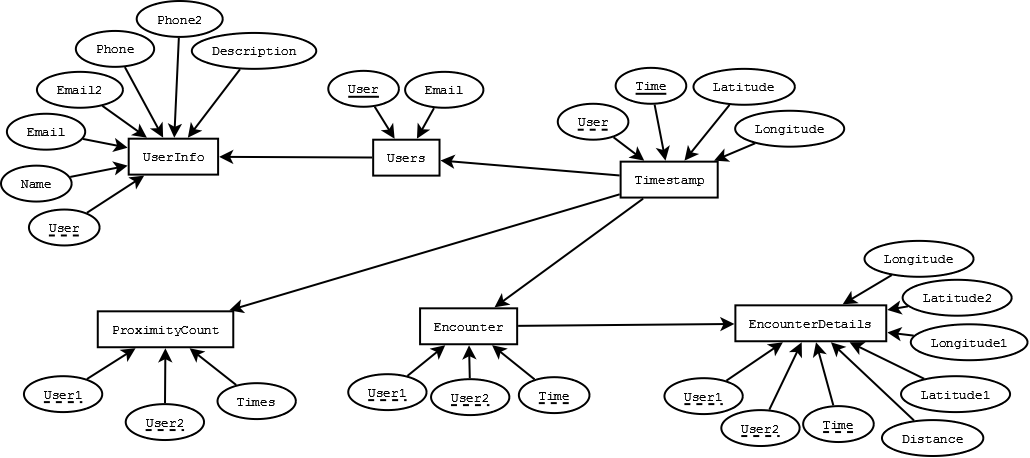
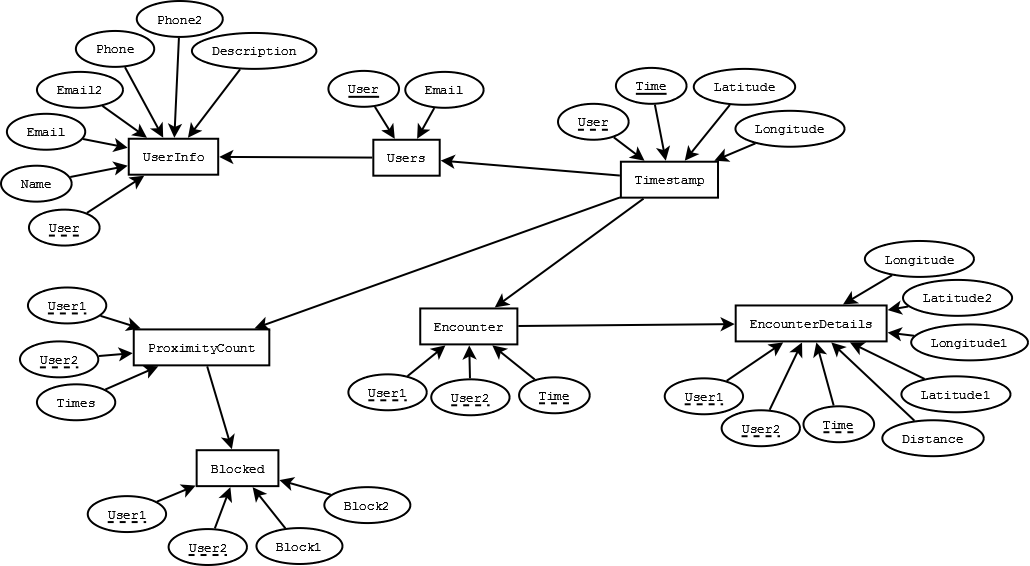
User blocking PHP now in place so only one user has to block

diff --git a/src/com/mhacks/reencounter/php/deleteBlock.php b/src/com/mhacks/reencounter/php/deleteBlock.php
@@ -1,0 +1,47 @@
+<?php
+if(isset($_GET['user']) && isset($_GET['password']) && isset($_GET['otherUser'])) {
+	$user      = strtolower($_GET['user']);
+	$password  = $_GET['password'];
+	$otherUser = strtolower($_GET['otherUser']);
+	
+	$con = mysqli_connect('reencounter.cyzculuyt8xu.us-west-2.rds.amazonaws.com:3306','admin','encounter') or die('Cannot connect to the DB');
+	mysqli_select_db($con,'ReEncounterDb') or die('Cannot select the DB');
+
+	if ($user == $otherUser) {
+		echo "Invalid entry";
+		return;
+	}
+	
+	$select_user = "Select * From User
+					Where User = '$user' And Password='$password';";
+	if (mysqli_query($con, $select_user)) {
+		echo "User Authentication Failed";
+		return;
+	}
+	
+	if (strcasecmp($user, $otherUser) < 0) {
+		$select_for_blocked = "Select Block1 from Blocked 
+						       Where User1 = '$user' And User2 = '$otherUser' And Block1 = 1;";			
+		$result_for_blocked = mysqli_query($con, $select_for_blocked) or die('Failed: '.$select_for_blocked);
+	
+		if ($mysqli_num_rows($result_for_blocked) > 0) {
+			$delete_from_block = "Delete from Encounter
+								      Where User1='$user' And User2='$otherUser';"; 
+			mysqli_query($con, $delete_from_block) or die('Failed: '.$delete_from_block);
+		}
+	}
+	else {
+		$select_for_blocked = "Select Block2 from Blocked 
+						       Where User1 = '$otherUser' And User2 = '$user' And Block2 = 1;";			
+		$result_for_blocked = mysqli_query($con, $select_for_blocked) or die('Failed: '.$select_for_blocked);
+	
+		if ($mysqli_num_rows($result_for_blocked) > 0) {
+			$delete_from_block = "Delete from Encounter
+								      Where User1='$otherUser' And User2='$user';"; 
+			mysqli_query($con, $delete_from_block) or die('Failed: '.$delete_from_block);
+		}	
+	}
+	
+	@mysqli_close($con);
+}
+?>

diff --git a/src/com/mhacks/reencounter/php/addBlock.php b/src/com/mhacks/reencounter/php/addBlock.php
@@ -1,0 +1,50 @@
+<?php
+if(isset($_GET['user']) && isset($_GET['password']) && isset($_GET['otherUser'])) {
+	$user      = strtolower($_GET['user']);
+	$password  = $_GET['password'];
+	$otherUser = strtolower($_GET['otherUser']);
+	
+	$con = mysqli_connect('reencounter.cyzculuyt8xu.us-west-2.rds.amazonaws.com:3306','admin','encounter') or die('Cannot connect to the DB');
+	mysqli_select_db($con,'ReEncounterDb') or die('Cannot select the DB');
+
+	if ($user == $otherUser) {
+		echo "Invalid entry";
+		return;
+	}
+	
+	$select_user = "Select * From User
+					Where User = '$user' And Password='$password';";
+	if (mysqli_query($con, $select_user)) {
+		echo "User Authentication Failed";
+		return;
+	}
+	
+	if (strcasecmp($user, $other_user) < 0) {
+		$select_for_times = "Select Times from ProximityCount 
+						 Where User1 = '$user' And User2 = '$otherUser' And Times > 1";			
+		$result_for_times = mysqli_query($con, $select_for_times) or die('Failed: '.$select_for_times);
+	
+		if ($mysqli_num_rows($result_for_times) > 0) {
+			$add_block = "Insert into Block
+						  Values ('$user', '$otherUser', 1, 0);";
+			mysqli_query($con, $add_block) or die('Failed: '.$add_block);
+		}
+	}
+	else {
+		$select_for_times = "Select Times from ProximityCount 
+						 Where User1 = '$otherUser' And User2 = '$user' And Times > 1;";			
+		$result_for_times = mysqli_query($con, $select_for_times) or die('Failed: '.$select_for_times);
+		
+		if ($mysqli_num_rows($result_for_times) > 0) {
+			$add_block = "Insert into Block
+						  Values ('$otherUser', '$user', 0, 1);";
+			mysqli_query($con, $add_block) or die('Failed: '.$add_block);
+		}		
+	}
+	else {
+		echo "Other user does not exist";
+	}
+	
+	@mysqli_close($con);
+}
+?>

diff --git a/src/com/mhacks/reencounter/php/commit.php b/src/com/mhacks/reencounter/php/commit.php
@@ -52,9 +52,9 @@ if(isset($_GET['user']) && isset($_GET['timestamp']) && isset($_GET['lat']) && i
 						addProximityCount($user, $other_user, $con);
 						
 						$insert_encounter = "Insert Into Encounter
-											Values ('$user', '$other_user', '$time');\n";	
+											Values ('$user', '$other_user', '$time');";	
 						$insert_encounter_details = "Insert Into EncounterDetails
-											Values ('$user', '$other_user', '$time', $proximity, $lat, $long, $other_lat, $other_long);\n";		
+											Values ('$user', '$other_user', '$time', $proximity, $lat, $long, $other_lat, $other_long);";		
 
 						mysqli_query($con, $insert_encounter) or die('Failed: '.$insert_encounter);
 						mysqli_query($con, $insert_encounter_details) or die('Failed: '.$insert_encounter_details);
@@ -63,9 +63,9 @@ if(isset($_GET['user']) && isset($_GET['timestamp']) && isset($_GET['lat']) && i
 						addProximityCount($other_user, $user, $con);
 						
 						$insert_encounter = "Insert Into Encounter
-											Values ('$other_user', '$user', '$time');\n";	
+											Values ('$other_user', '$user', '$time');";	
 						$insert_encounter_details = "Insert Into EncounterDetails
-											Values ('$other_user', '$user', '$time', $proximity, $other_lat, $other_long, $lat, $long);\n";	
+											Values ('$other_user', '$user', '$time', $proximity, $other_lat, $other_long, $lat, $long);";	
 											
 						mysqli_query($con, $insert_encounter) or die('Failed:  '.$insert_encounter);
 						mysqli_query($con, $insert_encounter_details) or die('Failed:  '.$insert_encounter_details);

diff --git a/src/com/mhacks/reencounter/php/deleteEncounter.php b/src/com/mhacks/reencounter/php/deleteEncounter.php
@@ -23,7 +23,7 @@ if(isset($_GET['user']) && isset($_GET['password']) && isset($_GET['otherUser'])
 	}
 	
 	$select_for_times = "Select Times from ProximityCount 
-						 Where User1 = '$user1' And User2 = '$user2' And Times > 1";			
+						 Where User1 = '$user1' And User2 = '$user2' And Times > 1;";			
 	$result_for_times = mysqli_query($con, $select_for_times) or die('Failed: '.$select_for_times);
 	
 	if ($mysqli_num_rows($result_for_times) > 0) {

diff --git a/src/com/mhacks/reencounter/php/deleteEncounterAll.php b/src/com/mhacks/reencounter/php/deleteEncounterAll.php
@@ -22,7 +22,7 @@ if(isset($_GET['user']) && isset($_GET['password']) && isset($_GET['otherUser'])
 	}
 	
 	$select_for_times = "Select Times from ProximityCount 
-						 Where User1 = '$user1' And User2 = '$user2' And Times > 1";			
+						 Where User1 = '$user1' And User2 = '$user2' And Times > 1;";			
 	$result_for_times = mysqli_query($con, $select_for_times) or die('Failed: '.$select_for_times);
 	
 	if ($mysqli_num_rows($result_for_times) > 0) {
